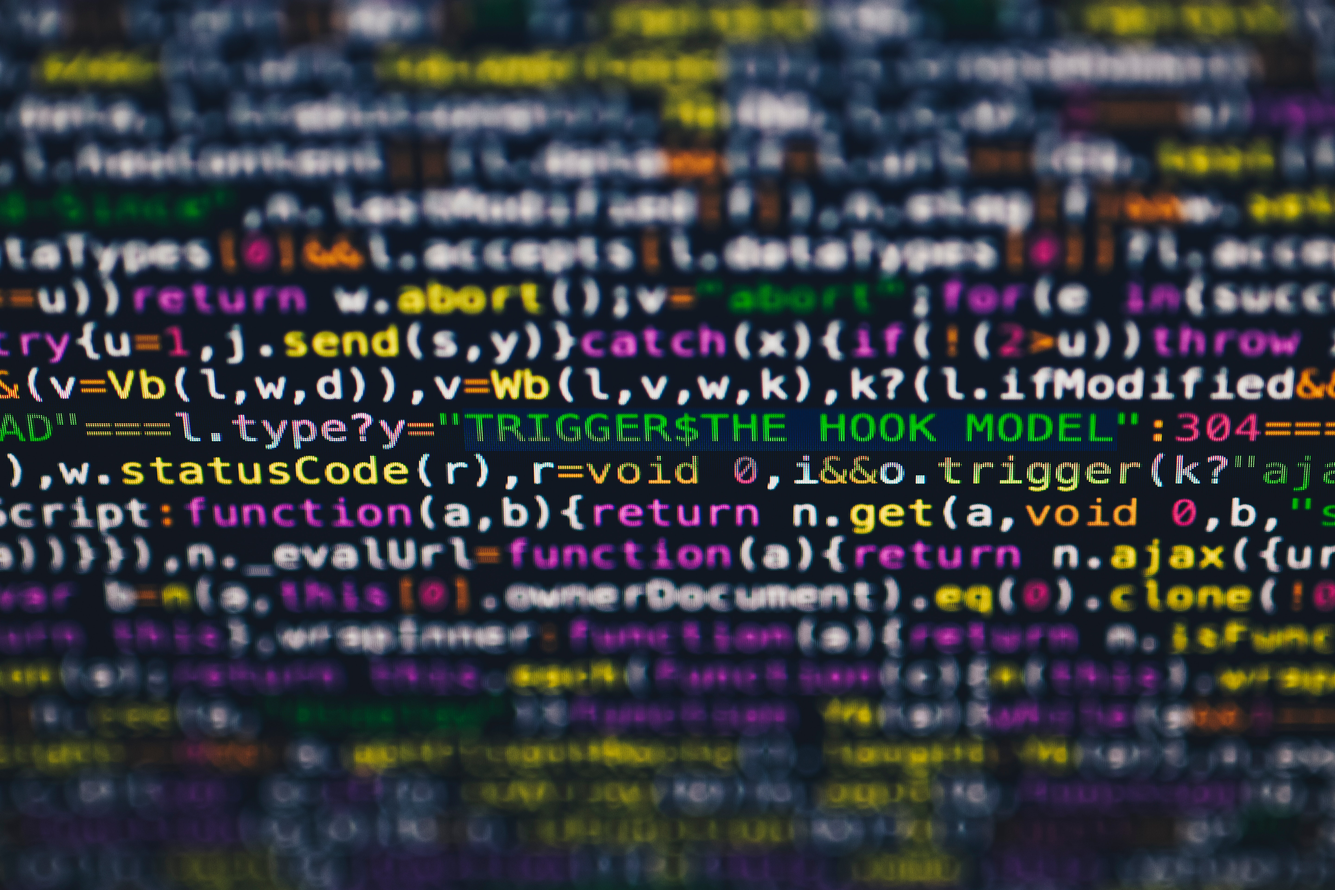
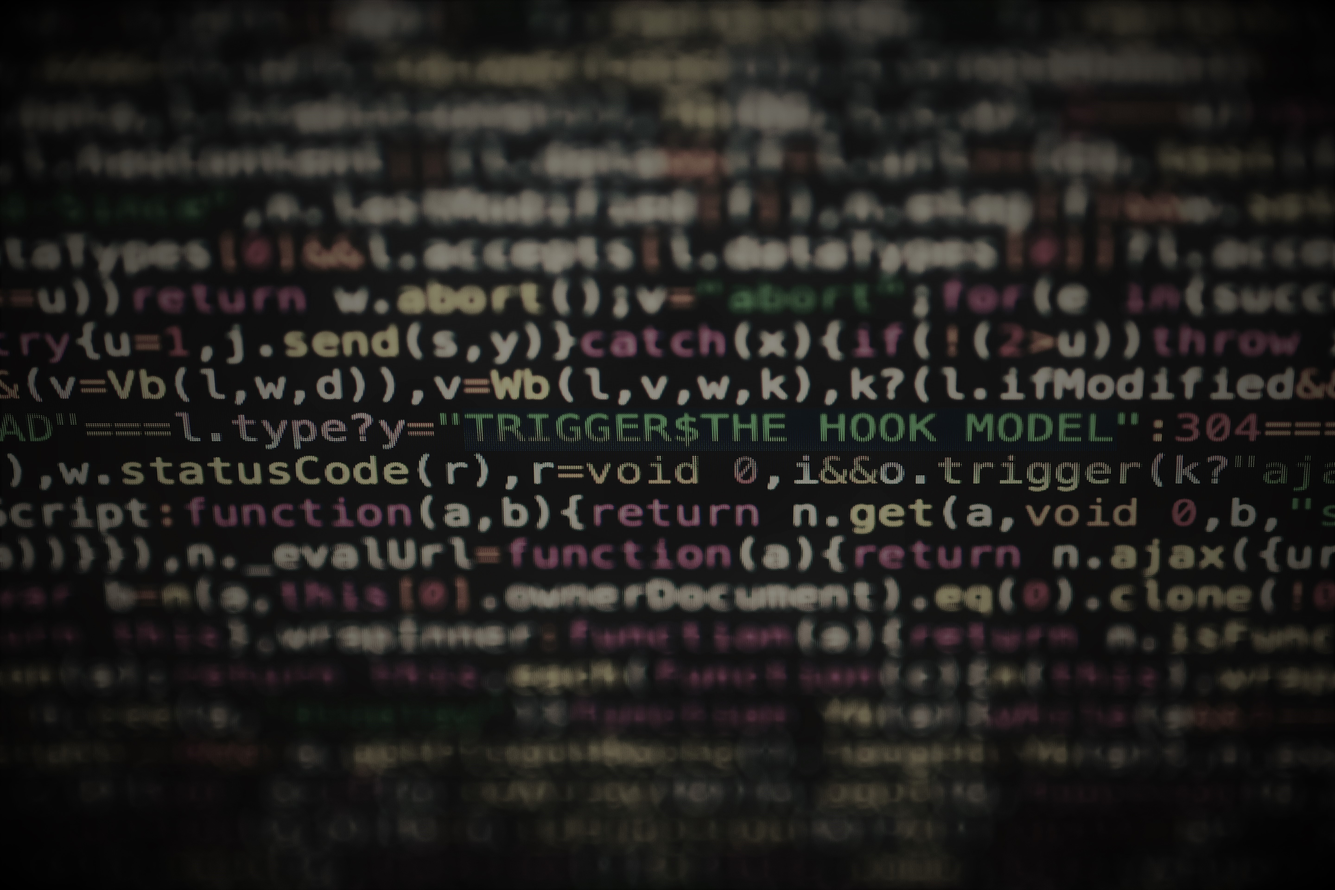
Fixed background img opacity; font-size; etc

diff --git a/css/styles.css b/css/styles.css
@@ -107,13 +107,14 @@ nav li:hover {
     display: none;
 }
 
-main {
+main,
+#contact-container,
+#about {
+    max-width: 475px;
+    margin: 0 auto 2rem;
 }
 
-main,
-#contact-container {
-    max-width: 475px;
-    margin: 0 auto;
+#about {
     padding: 2rem 1rem 3rem;
 }
 
@@ -305,11 +306,12 @@ footer {
     border-radius: 8px;
     opacity: 0;
     transition-property: opacity;
-    transition-duration: .5s;
+    transition-duration: .25s;
     overflow: hidden;
 }
 
-.photo-overlay:focus {
+.photo-overlay:focus,
+.photo-overlay:hover {
     opacity: 1;
 }
 
@@ -321,10 +323,12 @@ footer {
 }
 
 .photo-overlay p {
-    font-size: 1rem;
+    font-size: .9rem;
+    font-weight: 500;
     width: fit-content;
     max-width: 98%;
     text-align: center;
+    letter-spacing: 1px;
     margin: 0;
 }
 
@@ -334,12 +338,11 @@ footer {
 
 #contact-container {
     width: 100%;
-    background-image: url(../../capstone-portfolio/images/background-img.jpg);
+    background-image: url(../images/background-img.jpg);
     background-size: cover;
     border-radius: 50px;
     padding-top: 5rem;
     padding-bottom: 5rem;
-    opacity: 0.6;
 }
 
 form {
@@ -350,6 +353,7 @@ form {
     max-width: 350px;
     margin: 0 auto;
     width: 95%;
+    border: 3px solid white;
 }
 
 form h2 {
